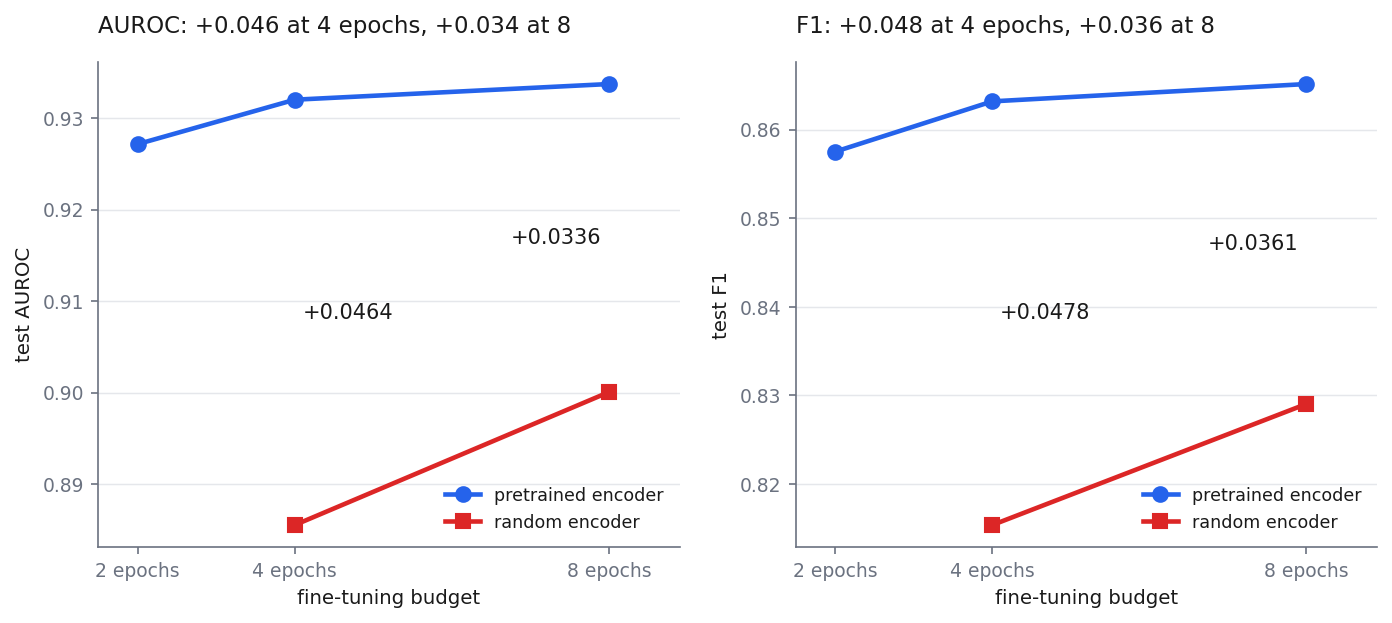
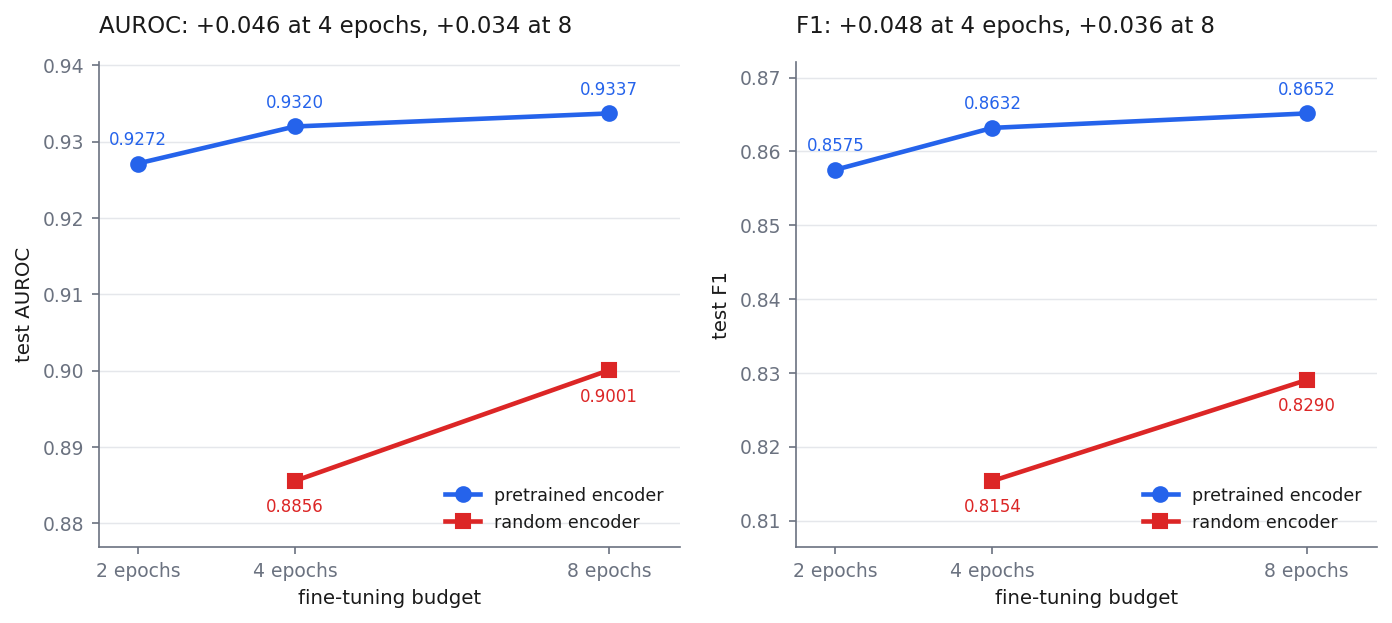
Label each point with its value instead of the gap

diff --git a/sweeps/plot_denoise.py b/sweeps/plot_denoise.py
@@ -367,10 +367,14 @@ def fig_pretrain_ablation(runs: Path) -> None:
         ax.plot([4, 8], [S[4], S[8]], "s-", color=RED, lw=2.2, ms=7,
                 label="random encoder")
         top8 = P[8] if not np.isnan(P[8]) else P[4]
-        ax.text(4.1, (P[4] + S[4]) / 2, f"+{P[4]-S[4]:.4f}", fontsize=10, color=INK,
-                va="center", ha="left")
-        ax.text(7.9, (top8 + S[8]) / 2, f"+{top8-S[8]:.4f}", fontsize=10, color=INK,
-                va="center", ha="right")
+        for e in xs:
+            ax.annotate(f"{P[e]:.4f}", (e, P[e]), textcoords="offset points",
+                        xytext=(0, 9), ha="center", fontsize=8, color=BLUE)
+        for e in (4, 8):
+            ax.annotate(f"{S[e]:.4f}", (e, S[e]), textcoords="offset points",
+                        xytext=(0, -15), ha="center", fontsize=8, color=RED)
+        span = max(P[4], top8) - min(S[4], S[8])
+        ax.set_ylim(min(S[4], S[8]) - 0.18 * span, max(P[4], top8) + 0.14 * span)
         ax.set_xticks([2, 4, 8]); ax.set_xticklabels([f"{e} epochs" for e in (2, 4, 8)])
         ax.set_xlim(1.5, 8.9)
         ax.set_xlabel("fine-tuning budget"); ax.set_ylabel(f"test {label}")
